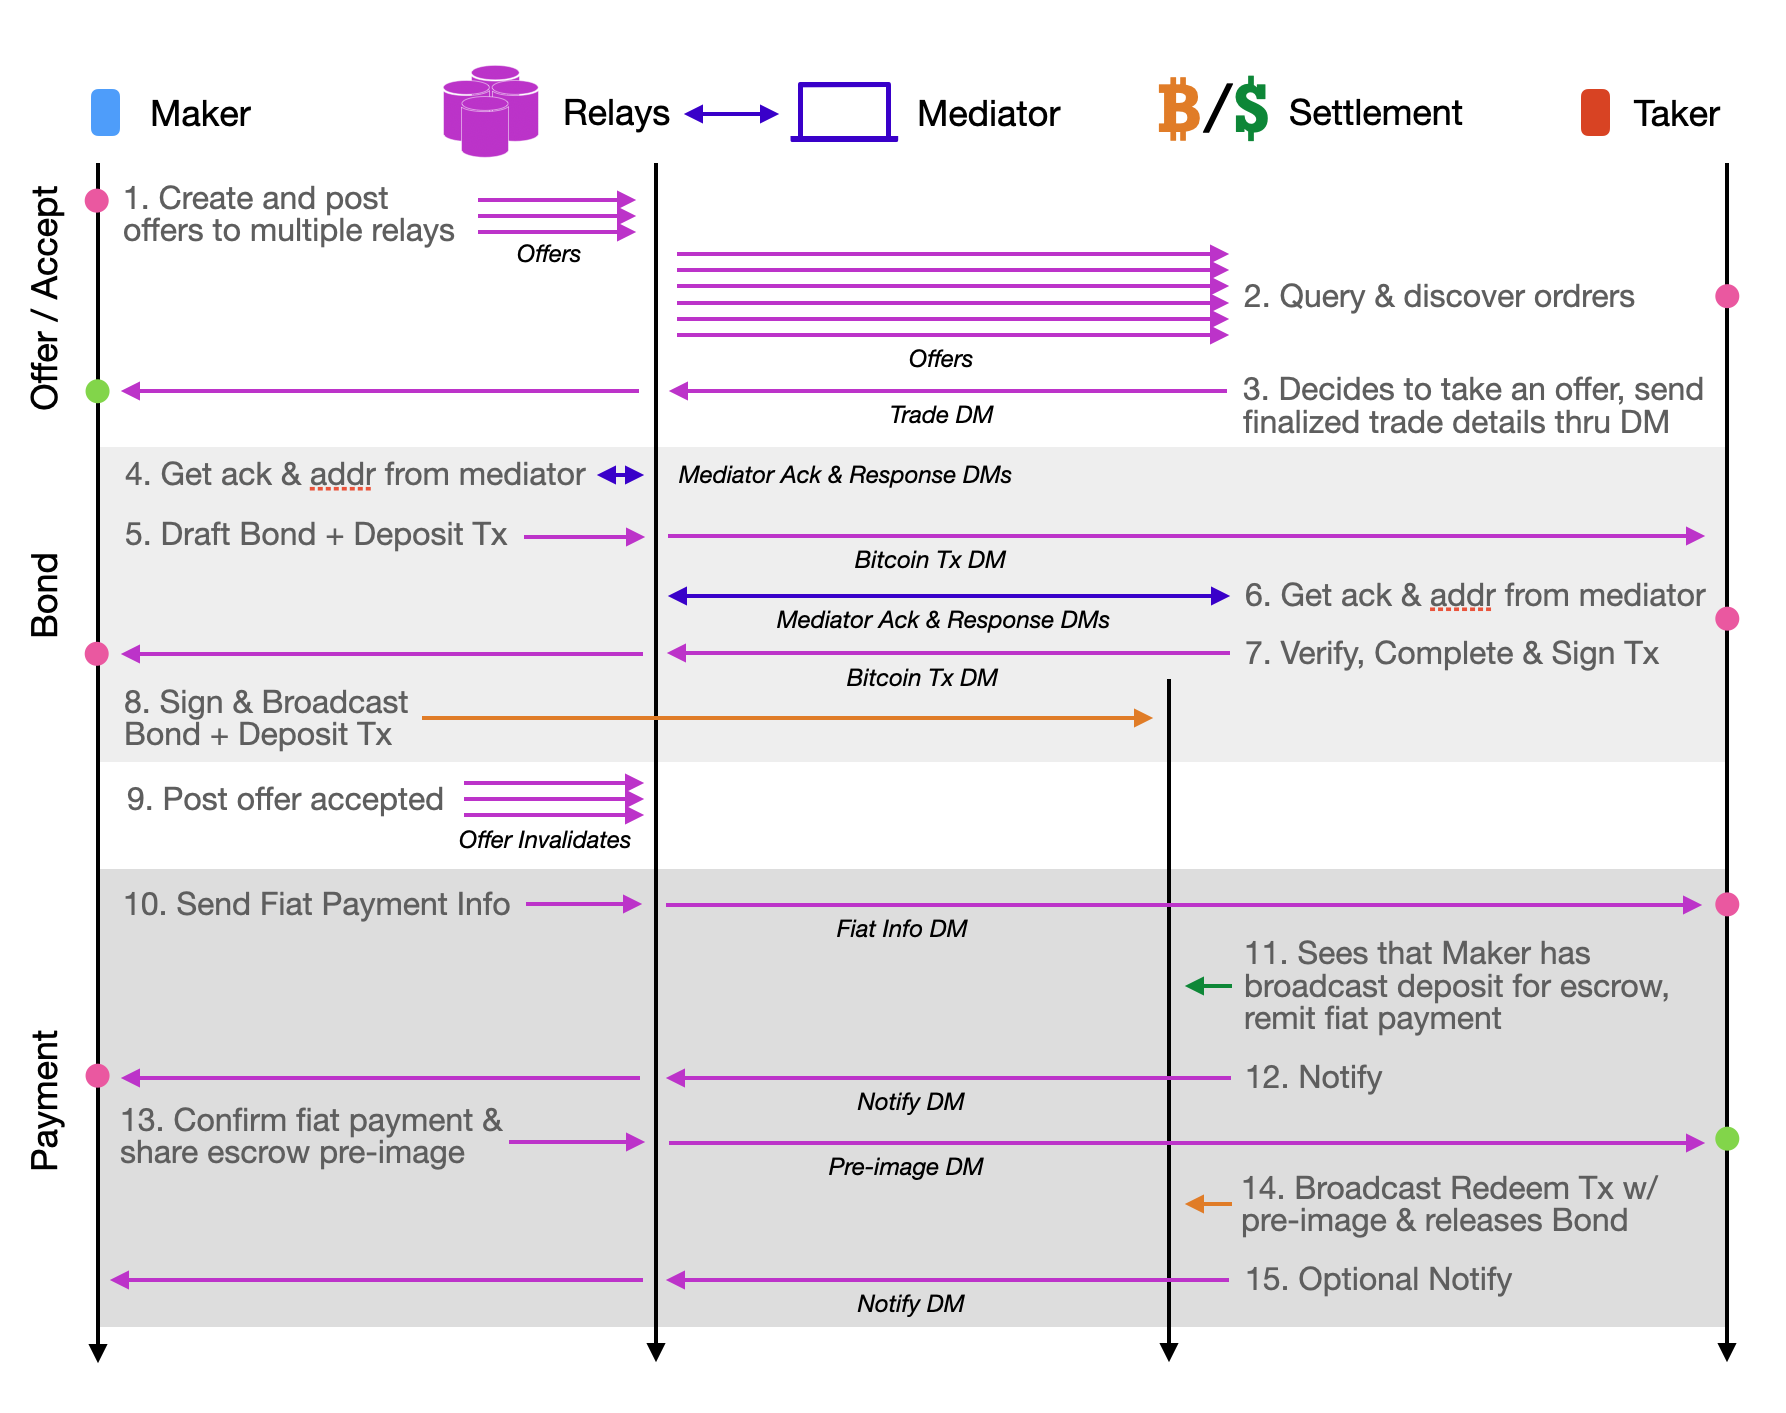
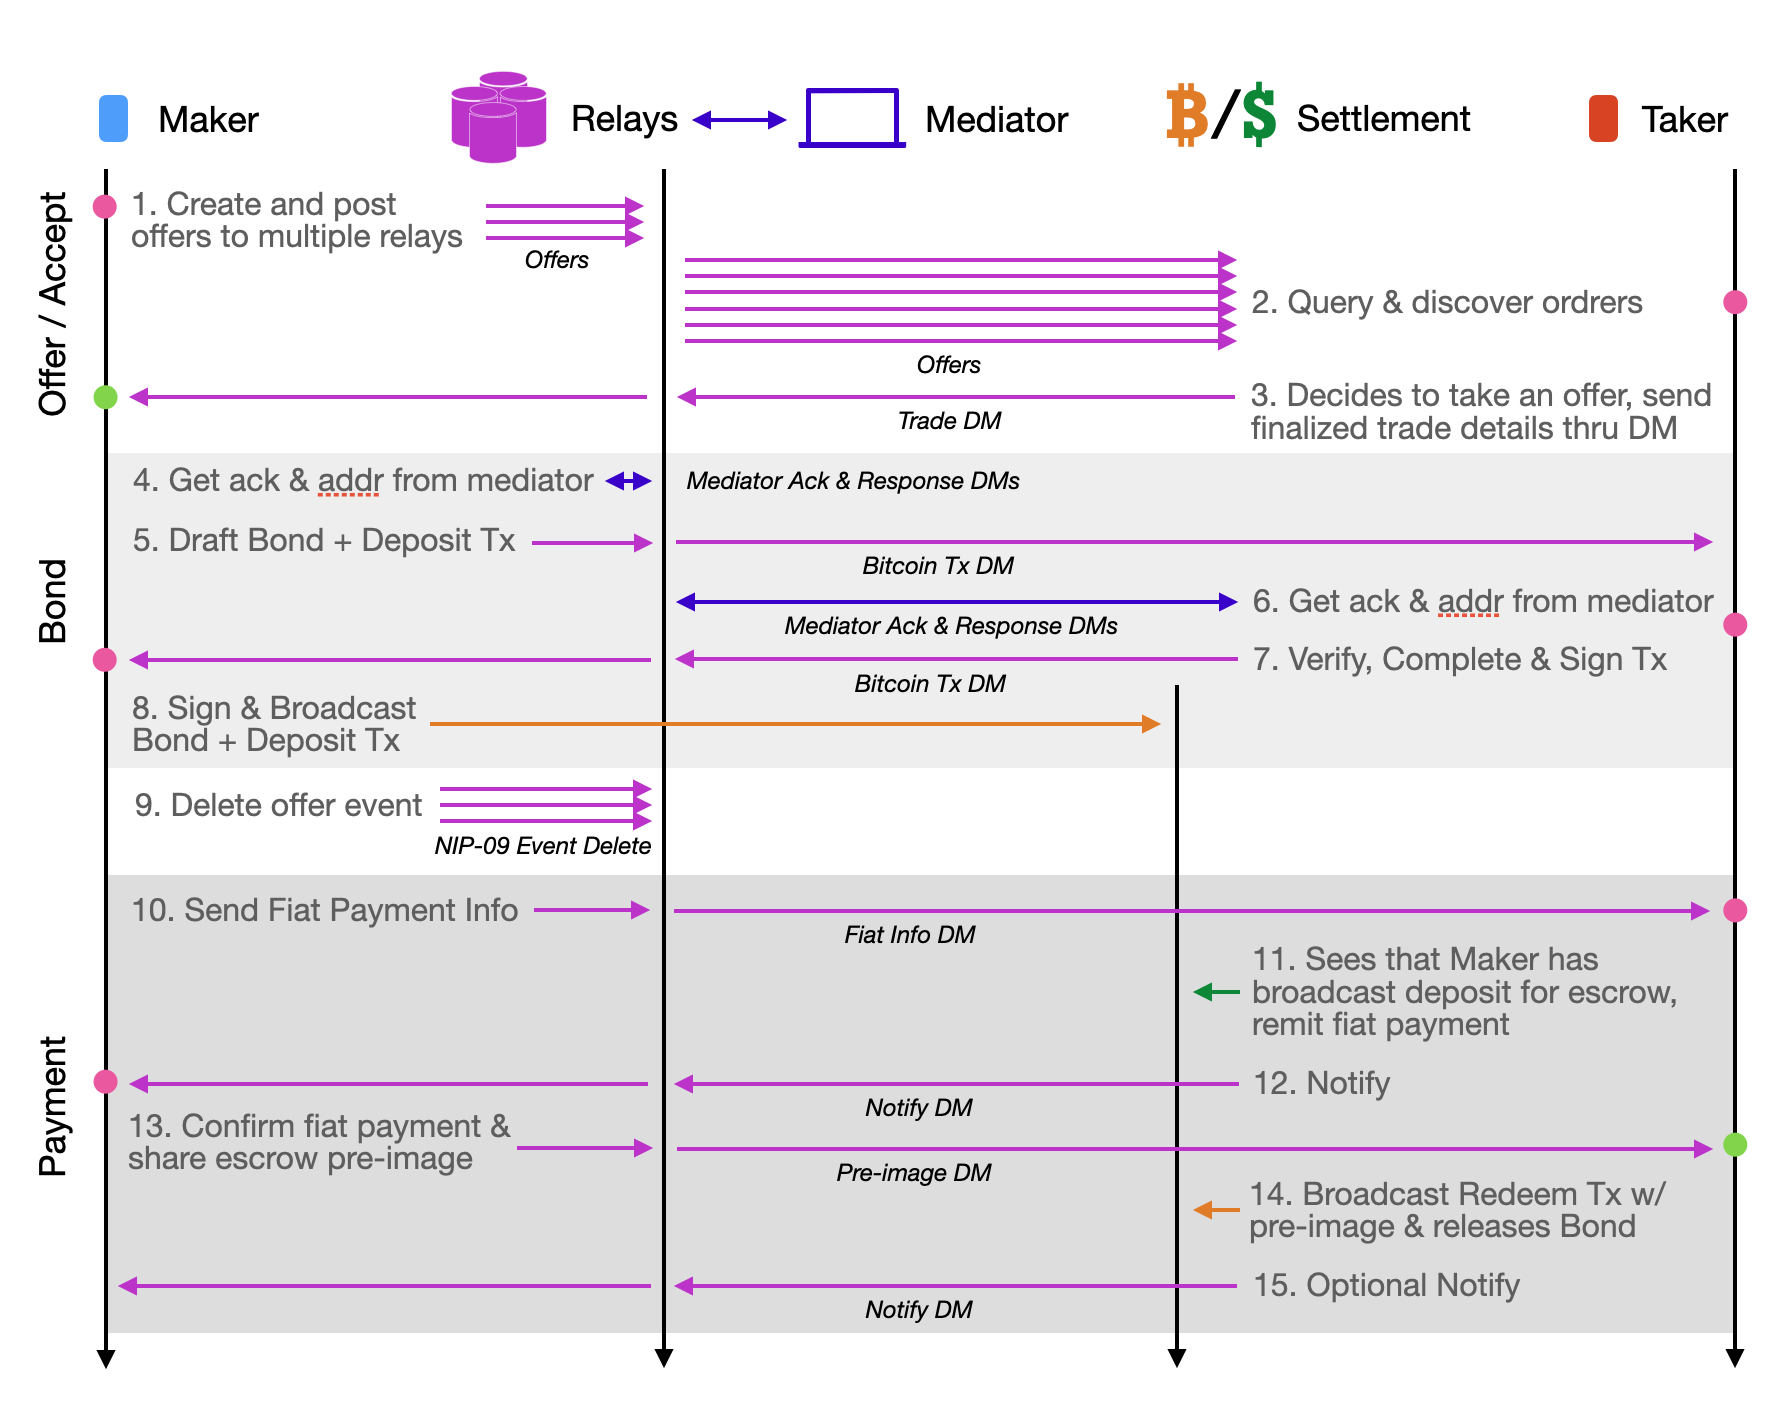
Change N3X Offer delete and query mechanics

diff --git a/xips/01/01.md b/xips/01/01.md
@@ -15,16 +15,15 @@ For now, this is assuming that the first few trade mechanics to be supported are
 
 | `offer_type` | description |
 | ------------ | ----------- |
-| 0            | Bitcoin     |
+| `"bitcoin"`  | Bitcoin     |
 
 
 | `trade_mechanics` | description                              | 
 | ----------------- | ---------------------------------------- |
-| 0                 | Reserved                                 |
-| 1                 | Bitcoin on-chain 4 Tx (Bisq current)     |
-| 2                 | Bitcoin on-chain 2 Tx (Bisq proposed)    |
-| 3                 | Bitcoin on-chain 1 Tx (Bisq theorized)   |
-| 4                 | Bitcoin Lightning Hodl Invoice (Robosat) |
+| `"onchain-4tx"`   | Bitcoin on-chain 4 Tx (Bisq current)     |
+| `"onchain-2tx"`   | Bitcoin on-chain 2 Tx (Bisq proposed)    |
+| `"onchain-1tx"`   | Bitcoin on-chain 1 Tx (Bisq theorized)   |
+| `"hodl-invoice"`  | Bitcoin Lightning Hodl Invoice (Robosat) |
 
 
 | `trade_mechanics_details` | see `trade_mechanics_details_object` below |
@@ -32,13 +31,12 @@ For now, this is assuming that the first few trade mechanics to be supported are
 |                           |                                            |
 
 
-| `x_obligation_type` | description          |
-| ------------------- | -------------------- |
-| 0                   | Reserved             |
-| 1                   | Bitcoin              |
-| 2                   | Digital Fiat         |
-| 3                   | Physical Fiat        |
-| Default             | Other                |
+| `x_obligation_type` | description   |
+| ------------------- | ------------- |
+| `"bitcoin"`         | Bitcoin       |
+| `"digital-fiat"`    | Digital Fiat  |
+| `"physical-fiat"`   | Physical Fiat |
+| `"other"`           | Other         |
 
 
 | `x_obligation_details` | see `obligation_details_object` below |
@@ -48,12 +46,11 @@ For now, this is assuming that the first few trade mechanics to be supported are
 
 | `dispute_resolution_type` | description                                | 3rd party arbitration |
 | ------------------------- | ------------------------------------------ | --------------------- |
-| 0                         | Reserved                                   | -                     |
-| 1                         | On-chain 2 of 2 MAD                        | No                    |
-| 2                         | On-chain 2 of 2 w/ HTLC                    | Yes                   |
-| 3                         | On-chain 2 of 3                            | Yes                   |
-| 4                         | Lightning HODL Invoice Bonds & Arbitration | Yes                   |
-| 65536                     | Trusted                                    | -                     |
+| `"on-chain-2-2-mad"`      | On-chain 2 of 2 MAD                        | No                    |
+| `"on-chain-2-2-htlc"`     | On-chain 2 of 2 w/ HTLC                    | Yes                   |
+| `"on-chain-2-3"`          | On-chain 2 of 3                            | Yes                   |
+| `"hodl-invoice-bonds"`    | Lightning HODL Invoice Bonds & Arbitration | Yes                   |
+| `"trusted"`               | Trusted                                    | -                     |
 
 
 | `dispute_resolution_details` | see `dispute_resolution_details_object` below |
@@ -70,7 +67,7 @@ This can be trade mechanics and trade mechanics version specific
 ```
 
 ### Obligation Details Object
-Only applicable if `obligation_type` is 1 - 3
+Only applicable for obligation types `"bitcoin"`, `"digital-fiat"`, and `"physical-fiat"`.
 ```
 {
   "amount": <amount in integer>
@@ -82,7 +79,7 @@ Only applicable if `obligation_type` is 1 - 3
 ```
 
 ### Dispute Resolution Details Object
-Only applicable if `dispute_resolution_type` is 1 - 4
+Only applicable for dispute resolution types `"on-chain-2-2-mad"`, `"on-chain-2-2-htlc"`, `"on-chain-2-3"`, and `"hodl-invoice-bonds"`.
 ```
 {
   "maker_bond_pct": <integer of numerator of percentage out of 100 of the bond maker needs to pay as fraction of trade amount>
@@ -124,7 +121,6 @@ For `attachment_type` of 1.
   "taker_payment": <payment method string code>
   "taker_bond_amount": <amount of satoshis in integer>
   "dispute_agent_pubkey": <32-byte lowercase hex-encoded public key of agent selected>
-  "pow_preimage": <64 bytes pre-image that satisfies PoW. Prevents order taking spam>
 }
 ```
 
@@ -196,22 +192,11 @@ For `attachment_type` of 4.
 | 3              | LN Hodl Invoice for Taker  |
 
 ## Query
-- An NIP to filter outstanding offers based on all of `trade_mechanics`, `obligation_type`, `amount`, `amount_min`, `rate`, `currency` and `payments`, with the latter to allow for filtering based on a range
-- An NIP to sort outstanding offers based on rate
+Aside from filtering for N3X `kind` of Nostr events, using [NIP-12 Generic Tag Queries](https://github.com/nostr-protocol/nips/blob/master/12.md) to get at Bitcoin offer types, and ensuring a reasonable expiry is set for all N3X Offers, all other filtering and sorting of orders a user might want to see are all carried out by the client. The primary reason is to minimize the amount of smart a relay requires to service N3X/N3XB marketplace operations. Moving the intelligence to the client increases decentralization and reduces risk that censorship can be done against marketplace operations at the relay level.
+
+Also, this limits the number of NIPs that might be required to support the N3X protocol. Further decoupling the Nostr core project from the N3X project.
+
+It is anticipated that relying entirely on client side logic to filter and sort offers will be sufficient in the beginning. It is not entirely out of the question that more specific relay side capabilities might be needed if offer volume becomes unmanageable even if additional tags are deployed to further refine offers.
 
 ## Trade State Machine
 TBD
-
-## NIP Dependant Enhancements
-There are several optional dependencies that'd greatly enhance the user experience and efficiency of allowing to run N3X and N3XB on top of Nostr. All of these have been mentioned in context above, but this section highlights them again, as below:
-
-### Push Notification
-An NIP to make Nostr relays generate Push Notifications to clients will greatly enhance the ease of getting trades into completion. There can also be certain code execution that is entirely push triggered without requiring user intervention. This improvement proposal is equally applicable to regular Nostr encrypted direct messages and have been created as a [potential NIP](https://github.com/nostr-protocol/nips/issues/257) for the Nostr protocol.
-
-### Offer Detail Aware Filtered Querying
-An NIP to enable filtered query by a potential taker, so that only open offers of desired parameters will be fetched, will greatly enhance the user experience for a taker. Otherwise it will become infeasible very quickly as there will be way too many offers, with some perhaps already invalidated, to be remitted to a taker. It can still be usable as filtering and invalidation can be done client-side, but this will be a lot more traffic for both the client and relay.
-
-It'd be most ideal if an NIP can be implemented such that a Nostr relay itself does not necessarily have to fully understand the kind of details it is querying on, such that future protocols outside of N3X, or protocol changes within N3X, can be supported without changing the Nostr protocol itself. This also can increase plausible deniability for node runners when it comes to hosting exchange offers.
-
-### Sorted Query
-An NIP to enable sorted query by a potential taker, so that paged response of only a limited number of open offers in sorted order will be returned to a taker. This will drastically reduce the number of offers needed to be relayed to a taker. For example, if a taker is only interested in the highest rate open offers of a particular currency pair, only a number of those needs to be remitted to the taker. Otherwise the taker will need to fetch all potential offers and sort through them client-side, increasing traffic load for both relay and client.

diff --git a/xips/00/00.md b/xips/00/00.md
@@ -6,50 +6,50 @@ Clients can choose to implement and understand whatever offer type it supports. 
 It is not mandatory, but it is recommended that clients and trade designs implements Proof of Work requirements into the initial order making and taking process.
 
 ### Kind
-| kind | description           |
-| ---- | --------------------- |
-| 50   | N3X Offer             |
-| 51   | N3X Offer Invalidate  |
+A unique kind number can be assigned for N3X Offers to both signify the event type, along with allowing the overriding of the content to be arbitrary JSONs, which is necessary for N3X Offer Object to be implemented. An NIP shall be proposed to make sure Nostr recognizes this in a inter-compatible manner. Alternatively, a generic JSON content event type can be proposed, along with a unique tag to identify and implement N3X Offers.
+
+| kind | description |
+| ---- | ----------- |
+| 6102 | N3X Offer   |
+
+### Offer Type
+An `offer_type` field is inside the N3X Offer Object. To make Nostr event query more specific and concise, the `offer_type` shall be duplicated with the prefix `"n3x-offertype-"` as a tag value, against a tag name of `"#x"`. Note that [NIP-12 Generic Tag Queries](https://github.com/nostr-protocol/nips/blob/master/12.md) supported relay is required to take advantage of this.
 
 ### N3X Generic Offer Object
 ```
 {
   ...
   "content": {
-    "offer_type": <integer>
-    "trade_mechanics": <integer>
+    "offer_type": <string>
+    "trade_mechanics": <string>
     "trade_mechanics_details" <arbitrary JSON?>
-    "maker_obligation_type": <integer>
+    "maker_obligation_type": <string>
     "maker_obligation_details": <arbitrary JSON specifying obligation maker has to fulfill contract>
-    "taker_obligation_type": <integer>
+    "taker_obligation_type": <string>
     "taker_obligation_details": <arbitrary JSON specifying obligation taker has to fulfill contract>
-    "dispute_resolution_type": <integer>
+    "dispute_resolution_type": <string>
     "dispute_resolution_details": <arbitrary JSON?>
-    "pow_difficulty": <minimum difficulty for a NIP-13 note to Take the order, in integer>
+    "pow_difficulty": <minimum difficulty for a NIP-13 note to take the order, in integer>
   }
   ...
 }
 ```
 
-### N3X Offer Invalidate Object
-Since Nostr event persists in a relay indefinitely, invalidate events are needed to mark that an offer have been either accepted or discarded. This also gives reassurance to the taker that they are the one that have gotten the offer locked and can continue with the trade.
-```
-{
-  ...
-  "content": {
-    "offer_id": <32-bytes lowercase id of the event that contains the offer to invalidate>
-    "contract_id": <32-bytes lowercase even id of the contract that resulted from this offer. Can be nil>
-  }
-  ...
-}
-```
+### Invalidation
+Once an offer have been accepted or cancelled, an offer shall be deleted via [NIP-09 Event Deletion](https://github.com/nostr-protocol/nips/blob/master/09.md). 
+
+### Updates
+Clients needs to be careful whether to allow for updates of an offer once it has been published to a relay. As it is, a `kind` value of `6102` assumes the offer is not a replaceable event. Unless overwhelming evidence indicates so otherwise, offers are assumed to be un-editable to avoid potential race conditions. An update to an offer shall result in a deletion and a new offer event published.
+
+### Expiry
+Clients should enforce the setting of [NIP-40 Expiry Timestamp](https://github.com/nostr-protocol/nips/blob/master/40.md) so offers will not linger forever in a relay. Exact duration of this is client dependent. However from a naive initial guestimation, there shouldn't be any reason to have an offer to be outstanding for more than 30 days. More volatile markets might make sense to have this time-window be further constrained. Client can have mechanisms to replay an offer upon expiry after notifying the user for intervention.
 
 ### N3X Encrypted Messaging
 N3X Encrypted Messaging is a standardization of communications between participants of an exchange, including the maker, taker, arbitrators, etc. Nostr event `kind` value of 4 will remain to be used to make it difficult to distinguish N3X messages from regular DMs. N3X messages will be distinguished via a marked header in the beginning of the Nostr event `content` where trade participant's client software would understand to be a N3X encrypted message.
 
-Often times manual user actions, or a wake-up of a mobile client, is required to make sure the trade continues. Mobile push notification will be very valuable in these cases. As it is Nostr does not have any support for generating mobile push notifications. A NIP proposal have been made for mobile push [here](https://github.com/nostr-protocol/nips/issues/257). This is not required to make N3XB possible, but it would be a huge improvement to the overall experience and usability if the capability is available.
+Often times manual user actions, or a wake-up of a mobile client, is required to make sure the trade continues. Mobile push notification will be very valuable in these cases. As it is Nostr does not have any support for generating mobile push notifications. A NIP proposal have been made for mobile push [here](https://github.com/nostr-protocol/nips/issues/257). This is not required to make N3X possible, but it would be a huge improvement to the overall experience and usability if the capability is available.
 
-NIP-24 is also a work in progress to make Nostr DM more anonymous. However if push notification is to be employed by relays, there is no way to obfuscate who the actual recipient is. This might be a privacy trade-off that a client implementation must make.
+[NIP-24 Private, Encrypted Direct Messaging](https://github.com/jeffthibault/nips/blob/private-messages-v2/24.md) is also a work in progress to make Nostr DM more anonymous. However if push notification is to be employed by relays, there is no way to obfuscate who the actual recipient is. This might be a privacy trade-off that a client implementation must make.
 
 ### N3X Encrypted Message Object
 ```
@@ -72,7 +72,3 @@ NIP-24 is also a work in progress to make Nostr DM more anonymous. However if pu
   "payload": <depends on the attachment type - can be JSON, can be a binary (eg, Bitcoin Tx), can be a string (eg. LN Invoice)>
 }
 ```
-
-## Query
-- Only `kind` filter is supported with existing Nostr implementation.
-- An NIP to filter out invalidated offers will expedite the query significantly
